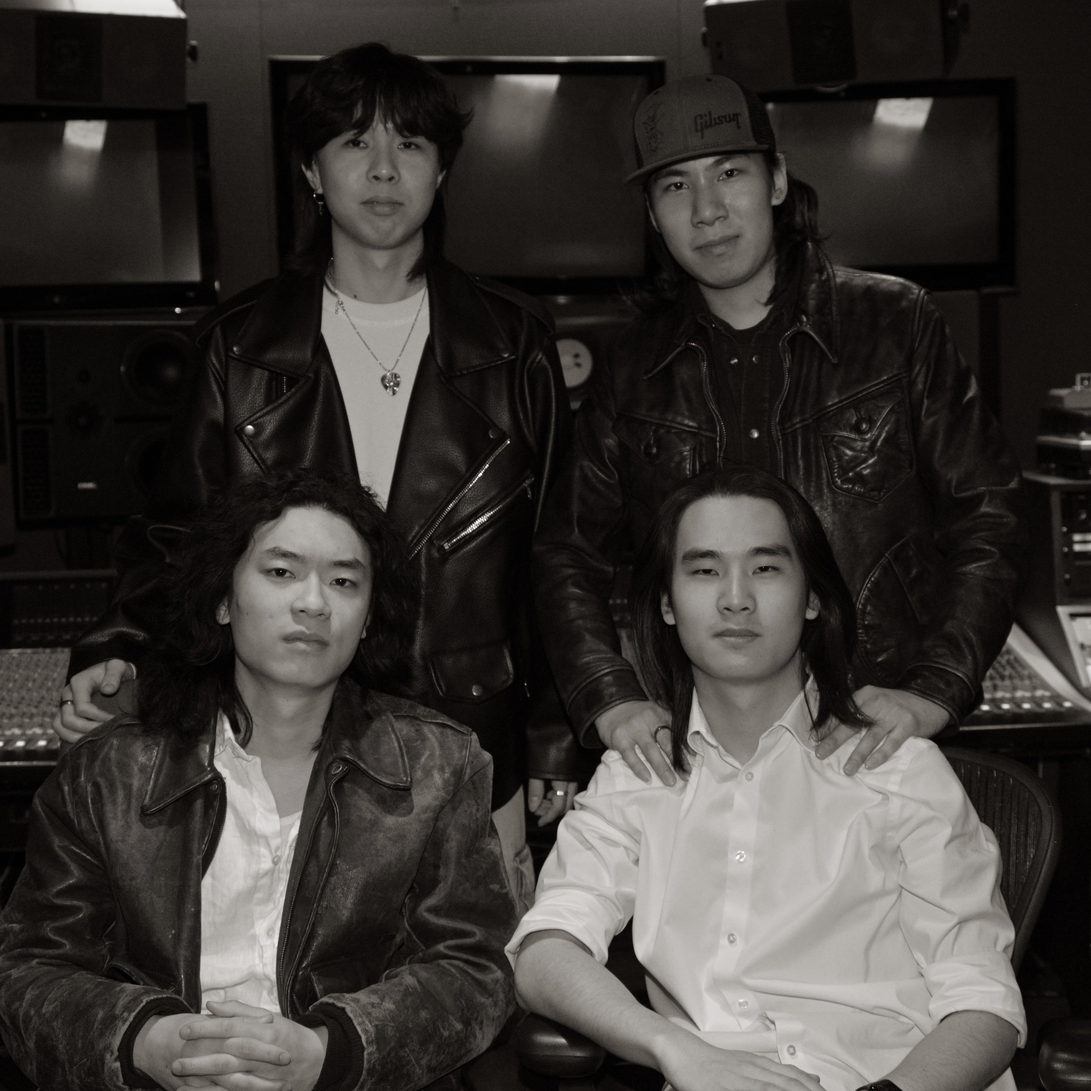
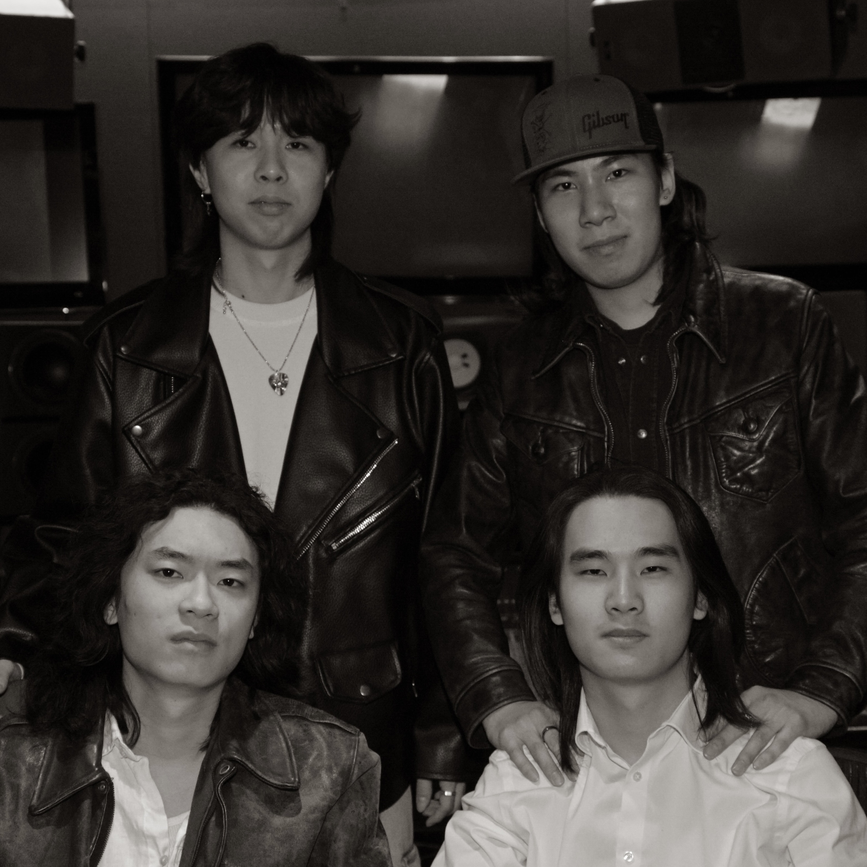
hero updateed

diff --git a/app/page.tsx b/app/page.tsx
@@ -37,7 +37,7 @@ export default function Page() {
             <h1 className="hero-title">Drifter<br />Corp.</h1>
             <Link href="/links" className="hero-badge">
               <span className="dot" />
-              Ebbs N&rsquo; Flows &mdash; PRE-ORDER NOW!
+              <span>Ebbs N&rsquo; Flows<br />PRE-ORDER NOW!</span>
             </Link>
           </div>
         </section>

diff --git a/app/globals.css b/app/globals.css
@@ -274,6 +274,7 @@ nav.open .nav-hamburger span:nth-child(3) { transform: translateY(-5px) rotate(-
   padding: var(--sp-xs) var(--sp-md);
   font-family: var(--f-accent);
   font-size: var(--fs-md);
+  line-height: 1.35;
   color: var(--accent);
   background: var(--surface);
   text-decoration: none;
